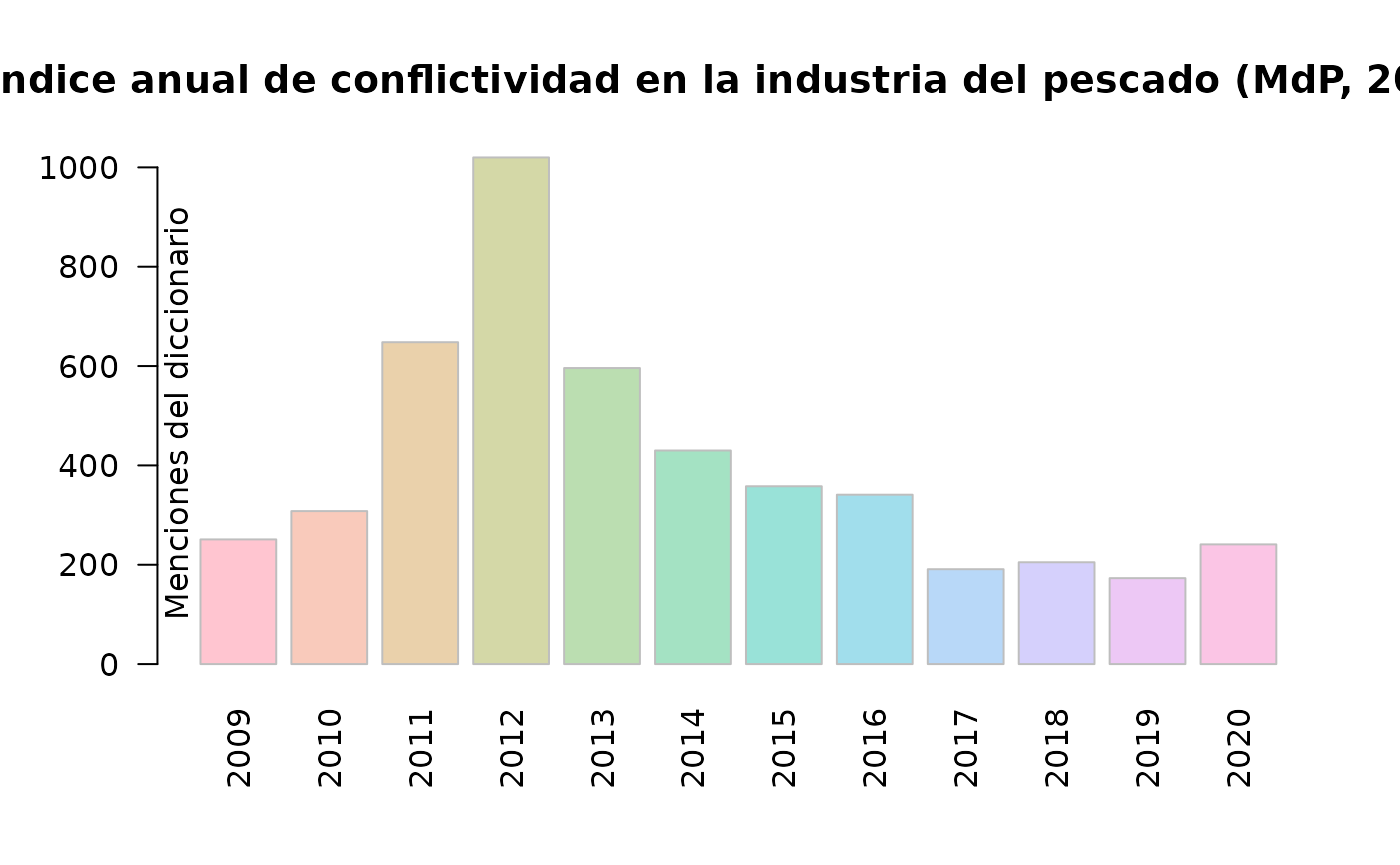
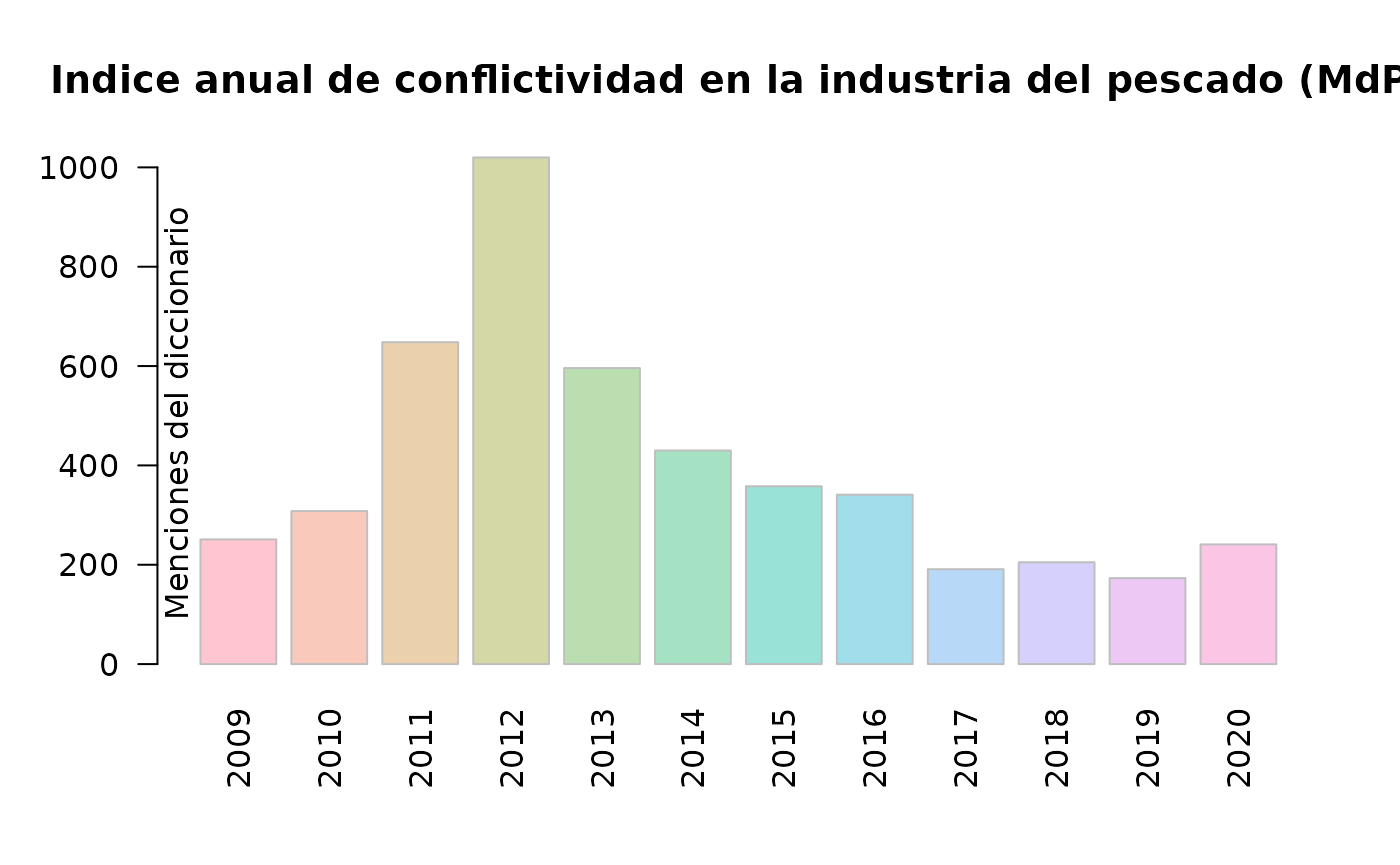
Deploying to gh-pages from @ agusnieto77/ACEP@baca5146e18d23cecc7aa3b3245cd0e2407f765e 🚀

Changed region(s): [[0.0, 0.0624, 1.0, 0.1249]]

diff --git a/articles/conflictividad_soip.html b/articles/conflictividad_soip.html
@@ -95,12 +95,10 @@ Nieto</h4>
 </h2>
 <p>En este artículo desarrollaremos un análisis de la conflictividad
 laboral en la industria pesquera argentina con un enfoque de diccionario
-en base a las funciones del paquete ACEP. También avanzaremos en un
-procesamiento elemental del corpus de notas en base a la función
-<code><a href="../reference/acep_token.html">acep_token()</a></code>. En esta oportunidad pondremos el foco en la
-conflictividad laboral protagonizada por el Sindicato Obrero de la
-Industria del Pescado (SOIP) en la ciudad de Mar del Plata entre los
-años 2009 y 2020.</p>
+en base a las funciones del paquete ACEP. En esta oportunidad pondremos
+el foco en la conflictividad laboral protagonizada por el Sindicato
+Obrero de la Industria del Pescado (SOIP) en la ciudad de Mar del Plata
+entre los años 2009 y 2020.</p>
 </div>
 <div class="section level2">
 <h2 id="el-corpus-de-notas">El corpus de notas<a class="anchor" aria-label="anchor" href="#el-corpus-de-notas"></a>
@@ -158,14 +156,14 @@ que refieran a huelgas; 2) identificar las notas que refieran a lxs
 trabajadorxs del procesamiento de pescado en tierra en la ciudad de Mar
 del Plata.</p>
 <div class="sourceCode" id="cb2"><pre class="downlit sourceCode r">
-<code class="sourceCode R"><span><span class="co"># Creamos la variable con al frecuencia de palabras por nota</span></span>
+<code class="sourceCode R"><span><span class="co"># Creamos la variable con la frecuencia de palabras por nota</span></span>
 <span><span class="va">rev_puerto</span><span class="op">$</span><span class="va">frec_palabras</span> <span class="op">&lt;-</span> <span class="fu"><a href="../reference/acep_frec.html">acep_frec</a></span><span class="op">(</span><span class="va">rev_puerto</span><span class="op">$</span><span class="va">nota</span><span class="op">)</span></span>
 <span></span>
 <span><span class="co"># Cargamos el diccionario de palabras que refieren a conflictividad</span></span>
 <span><span class="va">dicc_conflictos</span> <span class="op">&lt;-</span> <span class="fu"><a href="../reference/acep_load_base.html">acep_load_base</a></span><span class="op">(</span><span class="va">acep_diccionarios</span><span class="op">$</span><span class="va">dicc_confl_sismos</span><span class="op">)</span></span>
 <span><span class="co">#&gt; Descargando...</span></span>
 <span></span>
-<span><span class="co"># Creamos la variable con al frecuencia de palabras que refieren a conflictividad</span></span>
+<span><span class="co"># Creamos la variable con la frecuencia de palabras que refieren a conflictividad</span></span>
 <span><span class="va">rev_puerto</span><span class="op">$</span><span class="va">frec_conflictos</span> <span class="op">&lt;-</span> <span class="fu"><a href="../reference/acep_men.html">acep_men</a></span><span class="op">(</span><span class="va">rev_puerto</span><span class="op">$</span><span class="va">nota</span>, <span class="va">dicc_conflictos</span><span class="op">)</span></span>
 <span></span>
 <span><span class="co"># Creamos el diccionario de palabras que refieren a huelgas</span></span>
@@ -174,7 +172,7 @@ del Plata.</p>
 <span>                  <span class="st">"paro total"</span>, <span class="st">"paro parcial"</span>, <span class="st">"trabajo a reglamento"</span>, </span>
 <span>                  <span class="st">"el paro"</span>, <span class="st">"de brazos caídos"</span><span class="op">)</span></span>
 <span></span>
-<span><span class="co"># Creamos la variable con al frecuencia de palabras que refieren a huelgas</span></span>
+<span><span class="co"># Creamos la variable con la frecuencia de palabras que refieren a huelgas</span></span>
 <span><span class="va">rev_puerto</span><span class="op">$</span><span class="va">frec_huelgas</span> <span class="op">&lt;-</span> <span class="fu"><a href="../reference/acep_men.html">acep_men</a></span><span class="op">(</span><span class="va">rev_puerto</span><span class="op">$</span><span class="va">nota</span>, <span class="va">dicc_huelgas</span><span class="op">)</span></span>
 <span></span>
 <span><span class="co"># Creamos el diccionario de palabras que refieren a lxs obrerxs del pescado</span></span>
@@ -184,7 +182,8 @@ del Plata.</p>
 <span>               <span class="st">"obreros de la industria del pescado"</span>, <span class="st">"obreros del pescado"</span>,</span>
 <span>               <span class="st">"fileteros"</span>, <span class="st">"fileteras"</span>, <span class="st">"obreros del filet"</span>, <span class="st">"obreras del filet"</span><span class="op">)</span></span>
 <span></span>
-<span><span class="co"># Creamos la variable con al frecuencia de palabras que refieren a lxs obrerxs del pescado</span></span>
+<span><span class="co"># Creamos la variable con la frecuencia de palabras que </span></span>
+<span><span class="co"># refieren a lxs obrerxs del pescado</span></span>
 <span><span class="va">rev_puerto</span><span class="op">$</span><span class="va">frec_soip</span> <span class="op">&lt;-</span> <span class="fu"><a href="../reference/acep_men.html">acep_men</a></span><span class="op">(</span><span class="va">rev_puerto</span><span class="op">$</span><span class="va">nota</span>, <span class="va">dicc_soip</span><span class="op">)</span></span>
 <span></span>
 <span><span class="co"># Imprimimos la base en consola</span></span>
@@ -210,19 +209,23 @@ del Plata.</p>
 </h2>
 <p>Ya construidas las variables de frecuencia de palabras y menciones
 nos ocuparemos de elaborar nuevas variables con índices de intensidad en
-base el ratio entre las frecuencias de palabras totales y menciones de
-los diccionarios sobre trabajadorxs del pescado, conflictos y huelgas.
-Para la elaboración de estos índices haremos uso de la función
+base al ratio entre las frecuencias de palabras totales y las menciones
+de los diccionarios sobre trabajadorxs del pescado, conflictos y
+huelgas. Para la elaboración de estos índices haremos uso de la función
 <code><a href="../reference/acep_int.html">acep_int()</a></code> del paquete ACEP.</p>
 <div class="sourceCode" id="cb3"><pre class="downlit sourceCode r">
 <code class="sourceCode R"><span><span class="co"># Creamos la variable con el índice de conflictividad general</span></span>
-<span><span class="va">rev_puerto</span><span class="op">$</span><span class="va">i_conf_gral</span> <span class="op">&lt;-</span> <span class="fu"><a href="../reference/acep_int.html">acep_int</a></span><span class="op">(</span><span class="va">rev_puerto</span><span class="op">$</span><span class="va">frec_conflictos</span>, <span class="va">rev_puerto</span><span class="op">$</span><span class="va">frec_palabras</span><span class="op">)</span></span>
+<span><span class="va">rev_puerto</span><span class="op">$</span><span class="va">i_conf_gral</span> <span class="op">&lt;-</span> <span class="fu"><a href="../reference/acep_int.html">acep_int</a></span><span class="op">(</span><span class="va">rev_puerto</span><span class="op">$</span><span class="va">frec_conflictos</span>, </span>
+<span>                                   <span class="va">rev_puerto</span><span class="op">$</span><span class="va">frec_palabras</span><span class="op">)</span></span>
 <span></span>
-<span><span class="co"># Creamos la variable con el índice de incidencia de lxs trabajadorxs del pescado</span></span>
-<span><span class="va">rev_puerto</span><span class="op">$</span><span class="va">i_soip</span> <span class="op">&lt;-</span> <span class="fu"><a href="../reference/acep_int.html">acep_int</a></span><span class="op">(</span><span class="va">rev_puerto</span><span class="op">$</span><span class="va">frec_soip</span>, <span class="va">rev_puerto</span><span class="op">$</span><span class="va">frec_palabras</span><span class="op">)</span></span>
+<span><span class="co"># Creamos la variable con el índice de incidencia </span></span>
+<span><span class="co"># de lxs trabajadorxs del pescado</span></span>
+<span><span class="va">rev_puerto</span><span class="op">$</span><span class="va">i_soip</span> <span class="op">&lt;-</span> <span class="fu"><a href="../reference/acep_int.html">acep_int</a></span><span class="op">(</span><span class="va">rev_puerto</span><span class="op">$</span><span class="va">frec_soip</span>, </span>
+<span>                              <span class="va">rev_puerto</span><span class="op">$</span><span class="va">frec_palabras</span><span class="op">)</span></span>
 <span></span>
 <span><span class="co"># Creamos la variable con el índice de huelgas</span></span>
-<span><span class="va">rev_puerto</span><span class="op">$</span><span class="va">i_huelgas</span> <span class="op">&lt;-</span> <span class="fu"><a href="../reference/acep_int.html">acep_int</a></span><span class="op">(</span><span class="va">rev_puerto</span><span class="op">$</span><span class="va">frec_huelgas</span>, <span class="va">rev_puerto</span><span class="op">$</span><span class="va">frec_conflictos</span><span class="op">)</span></span>
+<span><span class="va">rev_puerto</span><span class="op">$</span><span class="va">i_huelgas</span> <span class="op">&lt;-</span> <span class="fu"><a href="../reference/acep_int.html">acep_int</a></span><span class="op">(</span><span class="va">rev_puerto</span><span class="op">$</span><span class="va">frec_huelgas</span>, </span>
+<span>                                 <span class="va">rev_puerto</span><span class="op">$</span><span class="va">frec_conflictos</span><span class="op">)</span></span>
 <span></span>
 <span><span class="co"># Filtramos para quedarnos con los índices mayores a 0 </span></span>
 <span><span class="co"># en la variable del índice de conflictividad general</span></span>
@@ -252,7 +255,7 @@ Para la elaboración de estos índices haremos uso de la función
 <span><span class="co">#&gt; <span style="color: #949494;">#   ²frec_conflictos, ³frec_huelgas, ⁴frec_soip</span></span></span></code></pre></div>
 <p>Al realizar los filtros la base se redujo a 888 notas que presentan
 al menos una mención de una palabra que refiere a conflicto y al menos
-una palabra que refiere a lxs trabajadorxs del pescado.</p>
+un término que refiere a lxs trabajadorxs del pescado.</p>
 </div>
 <div class="section level2">
 <h2 id="serie-temporal-de-índices">Serie temporal de índices<a class="anchor" aria-label="anchor" href="#serie-temporal-de-%C3%ADndices"></a>
@@ -263,7 +266,12 @@ serie de tiempo para la conflictividad general.</p>
 <div class="sourceCode" id="cb4"><pre class="downlit sourceCode r">
 <code class="sourceCode R"><span><span class="co"># Calculamos el índice anual de conflictividad general en el</span></span>
 <span><span class="co"># ámbito de la industrial del procesado de pescado en tierra</span></span>
-<span><span class="co"># Pero primero preparamos el marcos de datos para ser procesado por la función acep_rst()</span></span>
+<span><span class="co"># Pero primero preparamos el marcos de datos para ser procesado </span></span>
+<span><span class="co"># por la función acep_rst()</span></span>
+<span><span class="co"># Estos pasos previos se deben realizar porque en este ejemplo no hicimos uso </span></span>
+<span><span class="co"># de la función acep_db() que calcula frecuencia, menciones e intensidad y</span></span>
+<span><span class="co"># deja el marco de datos resultante en un formato adecuado para ser usado</span></span>
+<span><span class="co"># con la función acep_rst()</span></span>
 <span><span class="va">datos</span> <span class="op">&lt;-</span> <span class="fu"><a href="https://rdrr.io/r/base/data.frame.html" class="external-link">data.frame</a></span><span class="op">(</span></span>
 <span>  fecha <span class="op">=</span> <span class="va">rev_puerto</span><span class="op">$</span><span class="va">fecha</span>,</span>
 <span>  n_palabras <span class="op">=</span> <span class="va">rev_puerto</span><span class="op">$</span><span class="va">frec_palabras</span>,</span>
@@ -283,7 +291,7 @@ serie de tiempo para la conflictividad general.</p>
 <span>                      <span class="va">conflictos</span>,</span>
 <span>                      st <span class="op">=</span> <span class="st">"anio"</span><span class="op">)</span></span>
 <span></span>
-<span><span class="co"># Imprimimos en consola</span></span>
+<span><span class="co"># Imprimimos la base en consola</span></span>
 <span><span class="va">conf_gral_anio</span> <span class="op">|&gt;</span> <span class="fu"><a href="https://rdrr.io/r/utils/head.html" class="external-link">head</a></span><span class="op">(</span><span class="op">)</span></span>
 <span><span class="co">#&gt;     st frecn csn  frecp frecm  intac intensidad int_notas_confl</span></span>
 <span><span class="co">#&gt; 1 2009    51  36  41178   251 0.3315     0.0061          0.7059</span></span>
@@ -295,7 +303,8 @@ serie de tiempo para la conflictividad general.</p>
 <div class="sourceCode" id="cb5"><pre class="downlit sourceCode r">
 <code class="sourceCode R"><span><span class="co"># Calculamos el índice mensual de conflictividad general en el</span></span>
 <span><span class="co"># ámbito de la industrial del procesado de pescado en tierra</span></span>
-<span><span class="co"># Pero primero preparamos el marcos de datos para ser procesado por la función acep_rst()</span></span>
+<span><span class="co"># Pero primero preparamos el marcos de datos para ser procesado </span></span>
+<span><span class="co"># por la función acep_rst()</span></span>
 <span><span class="va">datos</span> <span class="op">&lt;-</span> <span class="fu"><a href="https://rdrr.io/r/base/data.frame.html" class="external-link">data.frame</a></span><span class="op">(</span></span>
 <span>  fecha <span class="op">=</span> <span class="va">rev_puerto</span><span class="op">$</span><span class="va">fecha</span>,</span>
 <span>  n_palabras <span class="op">=</span> <span class="va">rev_puerto</span><span class="op">$</span><span class="va">frec_palabras</span>,</span>
@@ -303,7 +312,7 @@ serie de tiempo para la conflictividad general.</p>
 <span>  intensidad <span class="op">=</span> <span class="va">rev_puerto</span><span class="op">$</span><span class="va">i_conf_gral</span></span>
 <span><span class="op">)</span></span>
 <span></span>
-<span><span class="co"># Construimos un subset de datos </span></span>
+<span><span class="co"># Nos quedamos con los datos del año 2012 </span></span>
 <span><span class="va">datos</span> <span class="op">&lt;-</span>  <span class="va">datos</span><span class="op">[</span><span class="va">datos</span><span class="op">$</span><span class="va">fecha</span> <span class="op">&lt;</span> <span class="st">"2013-01-01"</span>, <span class="op">]</span></span>
 <span><span class="va">datos</span> <span class="op">&lt;-</span>  <span class="va">datos</span><span class="op">[</span><span class="va">datos</span><span class="op">$</span><span class="va">fecha</span> <span class="op">&gt;</span> <span class="st">"2011-12-31"</span>, <span class="op">]</span></span>
 <span></span>
@@ -318,7 +327,7 @@ serie de tiempo para la conflictividad general.</p>
 <span>                      <span class="va">n_palabras</span>,</span>
 <span>                      <span class="va">conflictos</span><span class="op">)</span></span>
 <span></span>
-<span><span class="co"># Imprimimos en consola</span></span>
+<span><span class="co"># Imprimimos la base en consola</span></span>
 <span><span class="va">conf_gral</span> <span class="op">|&gt;</span> <span class="fu"><a href="https://rdrr.io/r/utils/head.html" class="external-link">head</a></span><span class="op">(</span><span class="op">)</span></span>
 <span><span class="co">#&gt;        st frecn csn frecp frecm  intac intensidad int_notas_confl</span></span>
 <span><span class="co">#&gt; 1 2012-01    14  12 10930    78 0.1180     0.0071          0.8571</span></span>
@@ -327,12 +336,13 @@ serie de tiempo para la conflictividad general.</p>
 <span><span class="co">#&gt; 4 2012-04    11  11  8615    89 0.1206     0.0103          1.0000</span></span>
 <span><span class="co">#&gt; 5 2012-05    12  11 10194   133 0.1641     0.0130          0.9167</span></span>
 <span><span class="co">#&gt; 6 2012-06    17  15 14001   163 0.1961     0.0116          0.8824</span></span></code></pre></div>
-<p>En la siguiente parte dle códico construimos la serie de tiempo para
+<p>En la siguiente parte del código construimos la serie de tiempo para
 la conflictividad huelguística.</p>
 <div class="sourceCode" id="cb6"><pre class="downlit sourceCode r">
 <code class="sourceCode R"><span><span class="co"># Calculamos el índice mensual de conflictividad huelguística en el</span></span>
 <span><span class="co"># ámbito de la industrial del procesado de pescado en tierra</span></span>
-<span><span class="co"># Pero primero preparamos el marcos de datos para ser procesado por la función acep_rst()</span></span>
+<span><span class="co"># Pero primero preparamos el marcos de datos para ser procesado </span></span>
+<span><span class="co"># por la función acep_rst()</span></span>
 <span><span class="va">datosh</span> <span class="op">&lt;-</span> <span class="fu"><a href="https://rdrr.io/r/base/data.frame.html" class="external-link">data.frame</a></span><span class="op">(</span></span>
 <span>  fecha <span class="op">=</span> <span class="va">rev_puerto</span><span class="op">$</span><span class="va">fecha</span>,</span>
 <span>  n_palabras <span class="op">=</span> <span class="va">rev_puerto</span><span class="op">$</span><span class="va">frec_palabras</span>,</span>
@@ -340,7 +350,7 @@ la conflictividad huelguística.</p>
 <span>  intensidad <span class="op">=</span> <span class="va">rev_puerto</span><span class="op">$</span><span class="va">i_huelgas</span></span>
 <span><span class="op">)</span></span>
 <span></span>
-<span><span class="co"># Construimos un subset de datos </span></span>
+<span><span class="co"># Nos quedamos con los datos del año 2012  </span></span>
 <span><span class="va">datosh</span> <span class="op">&lt;-</span>  <span class="va">datosh</span><span class="op">[</span><span class="va">datosh</span><span class="op">$</span><span class="va">fecha</span> <span class="op">&lt;</span> <span class="st">"2013-01-01"</span>, <span class="op">]</span></span>
 <span><span class="va">datosh</span> <span class="op">&lt;-</span>  <span class="va">datosh</span><span class="op">[</span><span class="va">datosh</span><span class="op">$</span><span class="va">fecha</span> <span class="op">&gt;</span> <span class="st">"2011-12-31"</span>, <span class="op">]</span></span>
 <span></span>
@@ -355,7 +365,7 @@ la conflictividad huelguística.</p>
 <span>                    <span class="va">n_palabrash</span>,</span>
 <span>                    <span class="va">conflictosh</span><span class="op">)</span></span>
 <span></span>
-<span><span class="co"># Imprimimos en consola</span></span>
+<span><span class="co"># Imprimimos la base en consola</span></span>
 <span><span class="va">huelgas</span> <span class="op">|&gt;</span> <span class="fu"><a href="https://rdrr.io/r/utils/head.html" class="external-link">head</a></span><span class="op">(</span><span class="op">)</span></span>
 <span><span class="co">#&gt;        st frecn csn frecp frecm  intac intensidad int_notas_confl</span></span>
 <span><span class="co">#&gt; 1 2012-01    14   0 10930     0 0.0000     0.0000          0.0000</span></span>
@@ -370,36 +380,52 @@ la conflictividad huelguística.</p>
 </h2>
 <p>En este último apartado haremos uso de las funciones
 <code><a href="../reference/acep_plot_st.html">acep_plot_st()</a></code> y <code><a href="../reference/acep_plot_rst.html">acep_plot_rst()</a></code> para
-visualizar la variación mensual de la conflictividad general y
-huelguística protagonizada por lxs trabajadorxs del pescado entre marzo
-de 2009 y diciembre de 2020.</p>
+visualizar la variación anual de la conflictividad general protagonizada
+por lxs trabajadorxs del pescado entre marzo de 2009 y diciembre de
+2020. También visualizaremos la variación mensual durante al año 2012,
+el más conflictivo de período bajo análisis.</p>
 <div class="sourceCode" id="cb7"><pre class="downlit sourceCode r">
-<code class="sourceCode R"><span><span class="co"># Visualizaremos el índice de conflictividad general agrupado por año para el paríodo 2009-2020</span></span>
-<span><span class="fu"><a href="../reference/acep_plot_st.html">acep_plot_st</a></span><span class="op">(</span><span class="va">conf_gral_anio</span><span class="op">$</span><span class="va">st</span>,</span>
-<span>             <span class="va">conf_gral_anio</span><span class="op">$</span><span class="va">frecm</span>,</span>
-<span>             t <span class="op">=</span> <span class="st">"Índice anual de conflictividad en la industria del pescado (MdP, 2012)"</span>,</span>
-<span>             ejey <span class="op">=</span> <span class="st">"Menciones del diccionario"</span>,</span>
-<span>             etiquetax <span class="op">=</span> <span class="st">"vertical"</span></span>
+<code class="sourceCode R"><span><span class="co"># Visualizaremos el índice de conflictividad general </span></span>
+<span><span class="co"># agrupado por año para el período 2009-2020</span></span>
+<span><span class="fu"><a href="../reference/acep_plot_st.html">acep_plot_st</a></span><span class="op">(</span></span>
+<span> <span class="va">conf_gral_anio</span><span class="op">$</span><span class="va">st</span>,</span>
+<span> <span class="va">conf_gral_anio</span><span class="op">$</span><span class="va">frecm</span>,</span>
+<span> t <span class="op">=</span> <span class="st">"Indice anual de conflictividad en la industria del pescado (MdP)"</span>,</span>
+<span> ejey <span class="op">=</span> <span class="st">"Menciones del diccionario"</span>,</span>
+<span> etiquetax <span class="op">=</span> <span class="st">"vertical"</span></span>
 <span>             <span class="op">)</span></span></code></pre></div>
 <p><img src="conflictividad_soip_files/figure-html/plot00-1.png" width="700"></p>
-<div class="sourceCode" id="cb8"><pre class="downlit sourceCode r">
-<code class="sourceCode R"><span><span class="co"># Visualizaremos el índice de conflictividad general agrupado por mes para el 2012</span></span>
-<span><span class="fu"><a href="../reference/acep_plot_st.html">acep_plot_st</a></span><span class="op">(</span><span class="va">conf_gral</span><span class="op">$</span><span class="va">st</span>,</span>
-<span>             <span class="va">conf_gral</span><span class="op">$</span><span class="va">frecm</span>,</span>
-<span>             t <span class="op">=</span> <span class="st">"Índice mensual de conflictividad en la industria del pescado (MdP, 2012)"</span>,</span>
-<span>             ejey <span class="op">=</span> <span class="st">"Menciones del diccionario"</span>,</span>
-<span>             etiquetax <span class="op">=</span> <span class="st">"vertical"</span></span>
+<pre><code><span><span class="co"># Visualizaremos el índice de conflictividad general </span></span>
+<span><span class="co"># agrupado por año para el período 2009-2020</span></span>
+<span><span class="fu"><a href="../reference/acep_plot_rst.html">acep_plot_rst</a></span><span class="op">(</span><span class="va">conf_gral_anio</span>, tagx <span class="op">=</span> <span class="st">"vertical"</span><span class="op">)</span></span></code></pre>
+<p><img src="plot_vignette.png"></p>
+<div class="sourceCode" id="cb9"><pre class="downlit sourceCode r">
+<code class="sourceCode R"><span><span class="co"># Visualizaremos el índice de conflictividad general </span></span>
+<span><span class="co"># agrupado por mes para el 2012</span></span>
+<span><span class="fu"><a href="../reference/acep_plot_st.html">acep_plot_st</a></span><span class="op">(</span></span>
+<span> <span class="va">conf_gral</span><span class="op">$</span><span class="va">st</span>,</span>
+<span> <span class="va">conf_gral</span><span class="op">$</span><span class="va">frecm</span>,</span>
+<span> t <span class="op">=</span> <span class="st">"Indice mensual de conflictividad en la industria del pescado (MdP)"</span>,</span>
+<span> ejey <span class="op">=</span> <span class="st">"Menciones del diccionario"</span>,</span>
+<span> etiquetax <span class="op">=</span> <span class="st">"vertical"</span></span>
 <span>             <span class="op">)</span></span></code></pre></div>
 <p><img src="conflictividad_soip_files/figure-html/plot01-1.png" width="700"></p>
-<div class="sourceCode" id="cb9"><pre class="downlit sourceCode r">
-<code class="sourceCode R"><span><span class="co"># Visualizaremos el índice de conflictividad huelguística agrupado por mes para el 2012</span></span>
-<span><span class="fu"><a href="../reference/acep_plot_st.html">acep_plot_st</a></span><span class="op">(</span><span class="va">huelgas</span><span class="op">$</span><span class="va">st</span>,</span>
-<span>             <span class="va">huelgas</span><span class="op">$</span><span class="va">frecm</span>,</span>
-<span>             t <span class="op">=</span> <span class="st">"Índice mensual de huelgas en la industria del pescado (MdP, 2012)"</span>,</span>
-<span>             ejey <span class="op">=</span> <span class="st">"Menciones del diccionario"</span>,</span>
-<span>             etiquetax <span class="op">=</span> <span class="st">"vertical"</span></span>
+<div class="sourceCode" id="cb10"><pre class="downlit sourceCode r">
+<code class="sourceCode R"><span><span class="co"># Visualizaremos el índice de conflictividad huelguística </span></span>
+<span><span class="co"># agrupado por mes para el 2012</span></span>
+<span><span class="fu"><a href="../reference/acep_plot_st.html">acep_plot_st</a></span><span class="op">(</span></span>
+<span> <span class="va">huelgas</span><span class="op">$</span><span class="va">st</span>,</span>
+<span> <span class="va">huelgas</span><span class="op">$</span><span class="va">frecm</span>,</span>
+<span> t <span class="op">=</span> <span class="st">"Indice mensual de huelgas en la industria del pescado (MdP)"</span>,</span>
+<span> ejey <span class="op">=</span> <span class="st">"Menciones del diccionario"</span>,</span>
+<span> etiquetax <span class="op">=</span> <span class="st">"vertical"</span></span>
 <span>             <span class="op">)</span></span></code></pre></div>
 <p><img src="conflictividad_soip_files/figure-html/plot02-1.png" width="700"></p>
+<p>Las distintas métricas nos ayudan a identificar al año 2012 como el
+más conflictivo del período en el ámbito de la industria de procesado en
+tierra en al ciudad de Mar del Plata, con epicentro en los meses de
+junio, julio y agosto para la conflictividad general y durante los meses
+de mayo, junio y julio para los movimientos huelguísticos.</p>
 </div>
 <div class="section level2">
 <h2 id="comentarios-finales">Comentarios finales<a class="anchor" aria-label="anchor" href="#comentarios-finales"></a>

diff --git a/reference/acep_clean.html b/reference/acep_clean.html
@@ -154,8 +154,7 @@ listado de stopwords con un nuevo vector de palabras.</p></dd>
     <div class="section level2">
     <h2 id="ref-examples">Examples<a class="anchor" aria-label="anchor" href="#ref-examples"></a></h2>
     <div class="sourceCode"><pre class="sourceCode r"><code><span class="r-in"><span><span class="fu">acep_clean</span><span class="op">(</span><span class="st">"El SUTEBA fue al paro. Reclaman mejoras salariales."</span>, rm_cesp <span class="op">=</span> <span class="cn">FALSE</span><span class="op">)</span></span></span>
-<span class="r-wrn co"><span class="r-pr">#&gt;</span> <span class="warning">Warning: </span>URL 'https://observatoriodeconflictividad.org/basesdatos/tildes.rds': Timeout of 60 seconds was reached</span>
-<span class="r-err co"><span class="r-pr">#&gt;</span> <span class="error">Error in readRDS(url("https://observatoriodeconflictividad.org/basesdatos/tildes.rds")):</span> cannot open the connection to 'https://observatoriodeconflictividad.org/basesdatos/tildes.rds'</span>
+<span class="r-out co"><span class="r-pr">#&gt;</span> [1] "suteba paro reclaman mejoras salariales"</span>
 </code></pre></div>
     </div>
   </main><aside class="col-md-3"><nav id="toc"><h2>On this page</h2>
